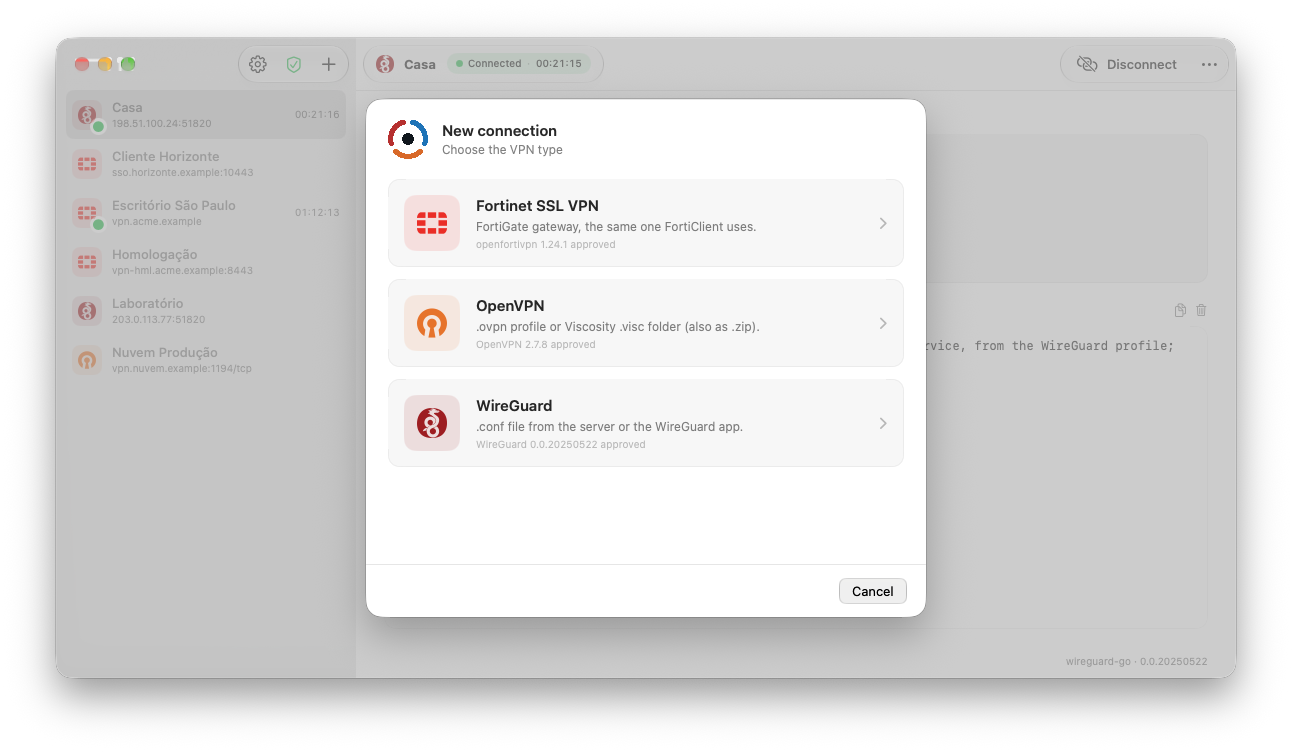
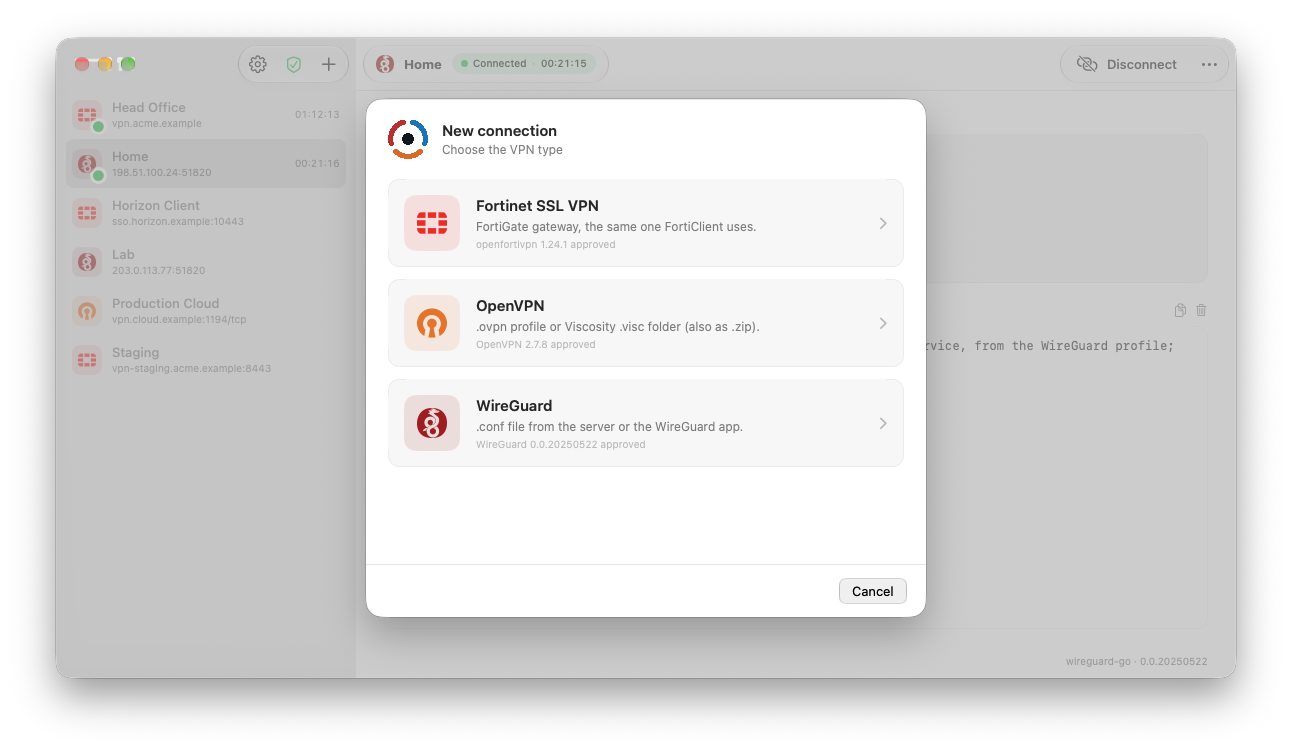
Demo in English: connection names, servers and replayed logs; new README captures
The demo and the README captures are in English: Head Office, Horizon Client,
Staging, Production Cloud, Home and Lab, with matching fictitious servers and
user, and the fixed replayed log lines in the helper's English wording.

diff --git a/IntegrationRunner/Showcase.swift b/IntegrationRunner/Showcase.swift
@@ -115,19 +115,19 @@ final class ShowcaseDemo: ObservableObject {
             try model.save(connection, password: saml ? "" : "demo-only")
             connections[name] = connection
         }
-        try fortinet("Escritório São Paulo", "vpn.acme.example", user: "ana.souza")
-        try fortinet("Cliente Horizonte", "sso.horizonte.example", port: 10443, user: "", saml: true)
-        try fortinet("Homologação", "vpn-hml.acme.example", port: 8443, user: "ana.souza")
+        try fortinet("Head Office", "vpn.acme.example", user: "alex.morgan")
+        try fortinet("Horizon Client", "sso.horizon.example", port: 10443, user: "", saml: true)
+        try fortinet("Staging", "vpn-staging.acme.example", port: 8443, user: "alex.morgan")
 
         let ovpn = OpenVPNTests.singleFile
             .replacingOccurrences(of: "auth RSA-SHA256", with: "auth SHA256")
             .replacingOccurrences(of: "cipher AES-256-CBC", with: "cipher AES-256-GCM")
-            .replacingOccurrences(of: "remote sslvpn1.example.invalid 2400 tcp", with: "remote vpn.nuvem.example 1194 tcp")
+            .replacingOccurrences(of: "remote sslvpn1.example.invalid 2400 tcp", with: "remote vpn.cloud.example 1194 tcp")
             .replacingOccurrences(of: "remote sslvpn2.example.invalid 2400 tcp\n", with: "")
             .replacingOccurrences(of: "comp-lzo adaptive\n", with: "")
-        let imported = try OpenVPNImporter.importText(ovpn, baseDirectory: root, suggestedName: "Nuvem Produção",
-                                                      source: "~/Downloads/nuvem-producao.ovpn")
-        let openVPN = Connection(name: "Nuvem Produção", kind: .openvpn, openVPN: imported.summary)
+        let imported = try OpenVPNImporter.importText(ovpn, baseDirectory: root, suggestedName: "Production Cloud",
+                                                      source: "~/Downloads/production-cloud.ovpn")
+        let openVPN = Connection(name: "Production Cloud", kind: .openvpn, openVPN: imported.summary)
         try model.save(openVPN, password: "", openVPNProfile: imported.profile.text)
         connections[openVPN.name] = openVPN
 
@@ -149,8 +149,8 @@ final class ShowcaseDemo: ObservableObject {
             try model.save(connection, password: "", wireGuardProfile: imported.profile.text)
             connections[name] = connection
         }
-        try wireGuard("Casa", address: "10.8.0.3/32", endpoint: "198.51.100.24:51820", allowed: "0.0.0.0/0, ::/0", dns: "10.8.0.1")
-        try wireGuard("Laboratório", address: "10.44.0.7/32", endpoint: "203.0.113.77:51820",
+        try wireGuard("Home", address: "10.8.0.3/32", endpoint: "198.51.100.24:51820", allowed: "0.0.0.0/0, ::/0", dns: "10.8.0.1")
+        try wireGuard("Lab", address: "10.44.0.7/32", endpoint: "203.0.113.77:51820",
                       allowed: "10.44.0.0/16, 172.20.0.0/16", dns: "10.44.0.1")
 
         for connection in connections.values { observeDisconnect(connection) }
@@ -160,12 +160,12 @@ final class ShowcaseDemo: ObservableObject {
         guard !didStart else { return }
         didStart = true
         // Two tunnels already up for a while, through the same connect path as the button.
-        connect("Escritório São Paulo", fast: true, since: 4_325)
-        connect("Casa", fast: true, since: 1_268)
+        connect("Head Office", fast: true, since: 4_325)
+        connect("Home", fast: true, since: 1_268)
         if let directory = ShowcaseApp.captureDirectory {
             Task { await ShowcaseTour(demo: self, directory: directory).run() }
         } else {
-            showFailure("Homologação")
+            showFailure("Staging")
         }
     }
 
@@ -176,7 +176,7 @@ final class ShowcaseDemo: ObservableObject {
         let session = model.manager.session(connection(name).id)
         session.begin()
         session.log("ERROR:  connect: Operation timed out")
-        session.log("ERROR:  Could not connect to gateway (vpn-hml.acme.example:8443).")
+        session.log("ERROR:  Could not connect to gateway (vpn-staging.acme.example:8443).")
         session.log("INFO:   Closed connection to gateway.")
         session.state = .failed
     }
@@ -241,22 +241,22 @@ final class ShowcaseDemo: ObservableObject {
         (0.4, "OpenVPN 2.7.8 aarch64-apple-darwin [SSL (OpenSSL)] [LZO] [LZ4] [PKCS11] [MH/RECVDA] [AEAD]", nil),
         (0.4, "TCP/UDP: Preserving recently used remote address: [AF_INET]203.0.113.40:1194", nil),
         (0.4, "TCP connection established with [AF_INET]203.0.113.40:1194", nil),
-        (0.5, "[vpn.nuvem.example] Peer Connection Initiated with [AF_INET]203.0.113.40:1194", nil),
+        (0.5, "[vpn.cloud.example] Peer Connection Initiated with [AF_INET]203.0.113.40:1194", nil),
         (0.4, "Data Channel: cipher 'AES-256-GCM', peer-id: 3", nil),
         (0.3, "net_iface_up: set utun7 up", nil),
         (0.2, "net_route_v4_add: 10.20.0.0/16 via 10.20.0.1 dev [NULL] table 0 metric -1", nil),
-        (0.2, "dns-updown: DNS do túnel aplicado (nuvem.example → 10.20.0.2)", nil),
+        (0.2, "dns-updown: tunnel DNS applied (cloud.example → 10.20.0.2)", nil),
         (0.3, "Initialization Sequence Completed", nil)
     ]
 
     private static let wireGuardOutput: [(TimeInterval, String, ConnectionState?)] = [
-        (0.3, "[+] Interface do WireGuard: utun6", nil),
+        (0.3, "[+] WireGuard interface: utun6", nil),
         (0.3, "[#] ifconfig utun6 inet 10.8.0.3/32 10.8.0.3 alias", nil),
         (0.2, "[#] ifconfig utun6 mtu 1420", nil),
         (0.2, "[#] route -q -n add -inet 198.51.100.24 -gateway 192.168.1.1", nil),
         (0.2, "[#] route -q -n add -inet 0.0.0.0/1 -interface utun6", nil),
         (0.2, "[#] route -q -n add -inet 128.0.0.0/1 -interface utun6", nil),
-        (0.2, "[+] DNS 10.8.0.1 no serviço Wi-Fi", nil),
+        (0.2, "[#] DNS 10.8.0.1 on the primary network service", nil),
         (0.2, "\(WireGuardMarkers.ready) em utun6.", nil),
         (0.6, "\(WireGuardMarkers.handshake) com 198.51.100.24:51820.", nil)
     ]
@@ -266,7 +266,7 @@ final class ShowcaseDemo: ObservableObject {
         case .fortinet: return ["INFO:   Cancelling threads...", "INFO:   Setting ppp interface down.", "INFO:   Restoring routes...",
                                 "INFO:   Removing VPN nameservers...", "INFO:   Logged out."]
         case .openvpn: return ["SIGTERM[hard,] received, process exiting"]
-        case .wireguard: return ["[#] Rotas e DNS restaurados; interface removida."]
+        case .wireguard: return ["[#] Routes and DNS restored; interface removed."]
         }
     }
 
@@ -296,10 +296,10 @@ struct ShowcaseTour {
 
         for (appearance, suffix) in [(NSAppearance.Name.aqua, "light"), (.darkAqua, "dark")] {
             NSApp.appearance = NSAppearance(named: appearance)
-            select("Escritório São Paulo")
+            select("Head Office")
             await pause(1.2)
             capture([window], "main-\(suffix)")
-            select("Casa")
+            select("Home")
             await pause(1.0)
             capture([window], "wireguard-\(suffix)")
 
@@ -331,7 +331,7 @@ struct ShowcaseTour {
 
         // Animated connect and disconnect of a Fortinet profile.
         NSApp.appearance = NSAppearance(named: .aqua)
-        select("Homologação")
+        select("Staging")
         await pause(1.2)
         let frames = directory.appendingPathComponent("frames-connect", isDirectory: true)
         try? FileManager.default.removeItem(at: frames)
@@ -344,9 +344,9 @@ struct ShowcaseTour {
             }
         }
         await pause(1.2)
-        demo.connect("Homologação")
+        demo.connect("Staging")
         await pause(5.5)
-        demo.model.manager.disconnect(demo.connection("Homologação").id)
+        demo.model.manager.disconnect(demo.connection("Staging").id)
         await pause(2.5)
         recorder.invalidate()
 
